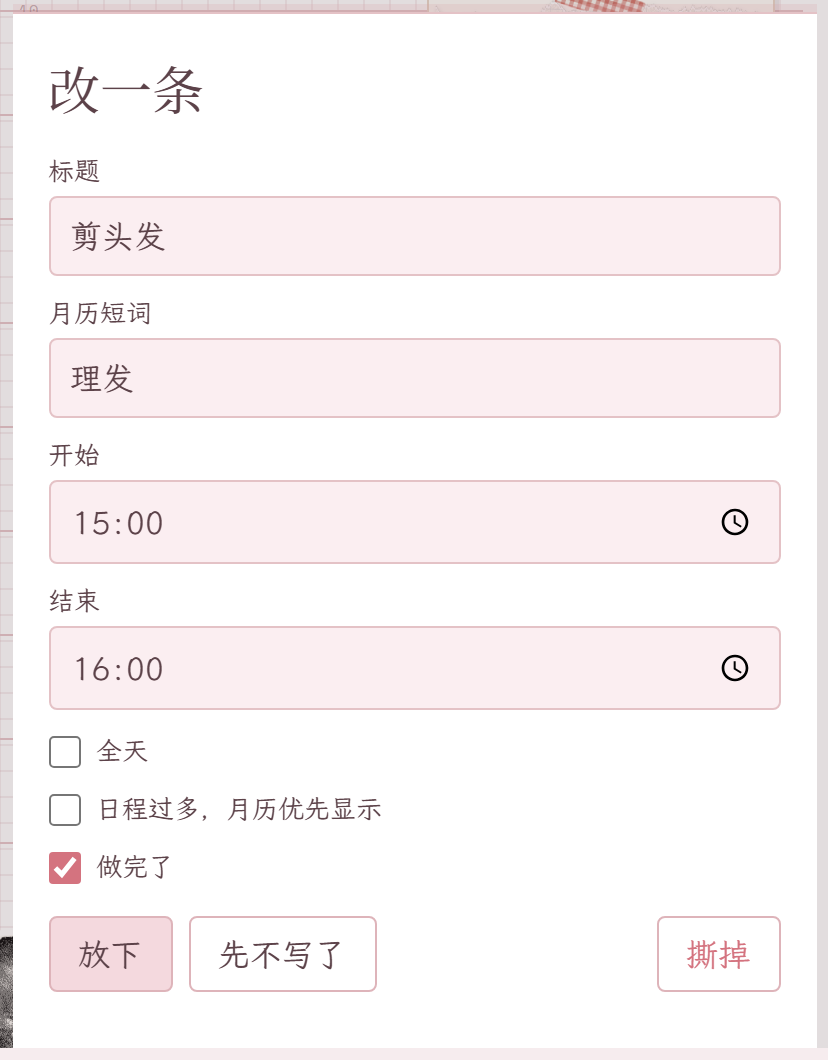
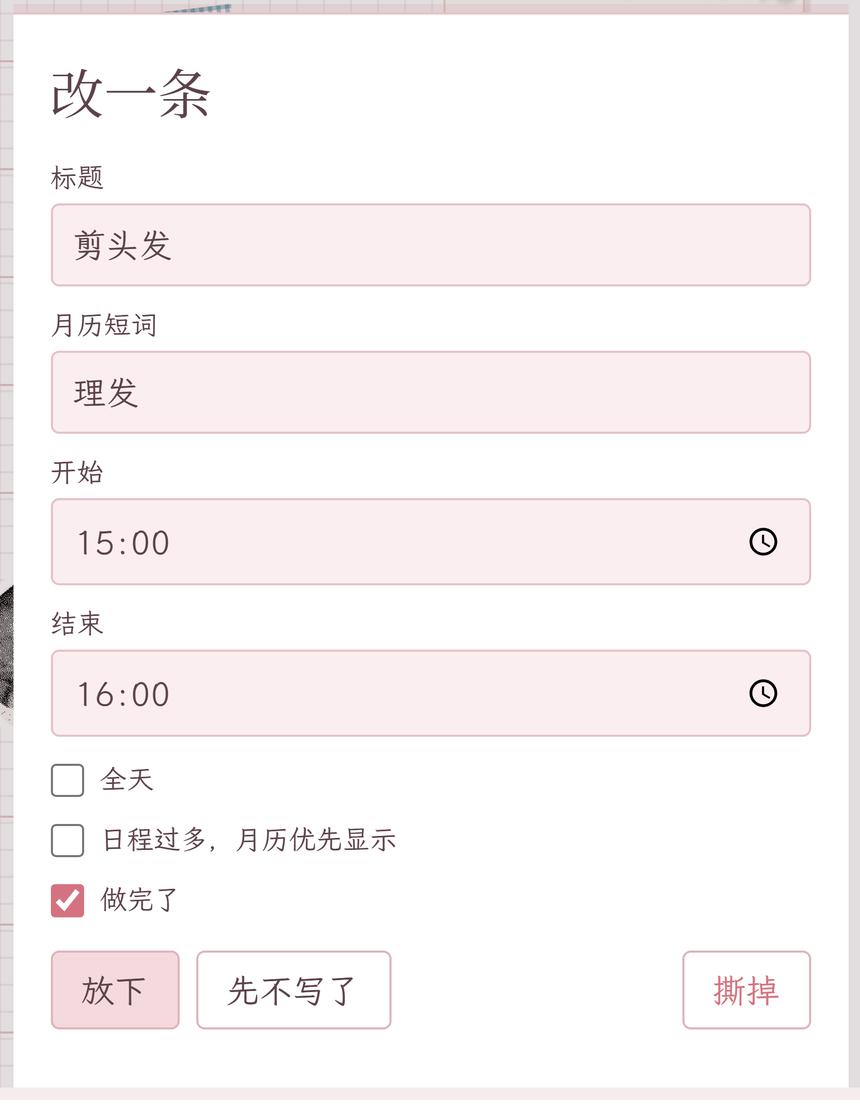
Drop AUTO from the month legend and unify README screenshot width.
The public web only uses USER and ASSISTANT pens. Day view is two shots so the long timeline is not one tall strip.

diff --git a/web/index.html b/web/index.html
@@ -4,7 +4,7 @@
   <meta charset="utf-8">
   <meta name="viewport" content="width=device-width, initial-scale=1, viewport-fit=cover">
   <title>一本和 AI 共用的日历</title>
-  <link rel="stylesheet" href="/styles.css?v=3">
+  <link rel="stylesheet" href="/styles.css?v=4">
 </head>
 <body>
   <div id="desk">
@@ -27,6 +27,6 @@
 
   <div id="modal" class="modal" hidden></div>
   <script src="/vendor/html2canvas.min.js"></script>
-  <script src="/app.js?v=3"></script>
+  <script src="/app.js?v=4"></script>
 </body>
 </html>

diff --git a/web/app.js b/web/app.js
@@ -404,7 +404,6 @@
         <div class="legend">
           <span><i class="swatch" style="background:var(--ink-kitty)"></i>USER</span>
           <span><i class="swatch" style="background:var(--ink-master)"></i>ASSISTANT</span>
-          <span><i class="swatch" style="background:var(--ink-system)"></i>AUTO</span>
         </div>
       </div>`;
     el.querySelectorAll("[data-nav]").forEach((b) => b.addEventListener("click", () => shiftMonth(Number(b.dataset.nav))));

diff --git a/README.md b/README.md
@@ -8,10 +8,11 @@
 
 <p align="center">
   <img src="docs/month.png" width="300" alt="月视图">
-  <img src="docs/day.png" width="300" alt="日视图">
+  <img src="docs/day-notes.png" width="300" alt="日视图 · 便签">
 </p>
 <p align="center">
-  <img src="docs/editor.png" width="280" alt="编辑安排">
+  <img src="docs/day-events.png" width="300" alt="日视图 · 安排">
+  <img src="docs/editor.png" width="300" alt="编辑安排">
 </p>
 
 *（截图是本 fork 本地网页的示范数据，USER / ASSISTANT。本机打开即可，不必先填钥匙。月历右上角是全年纪念日；编辑里可以勾做完。）*
